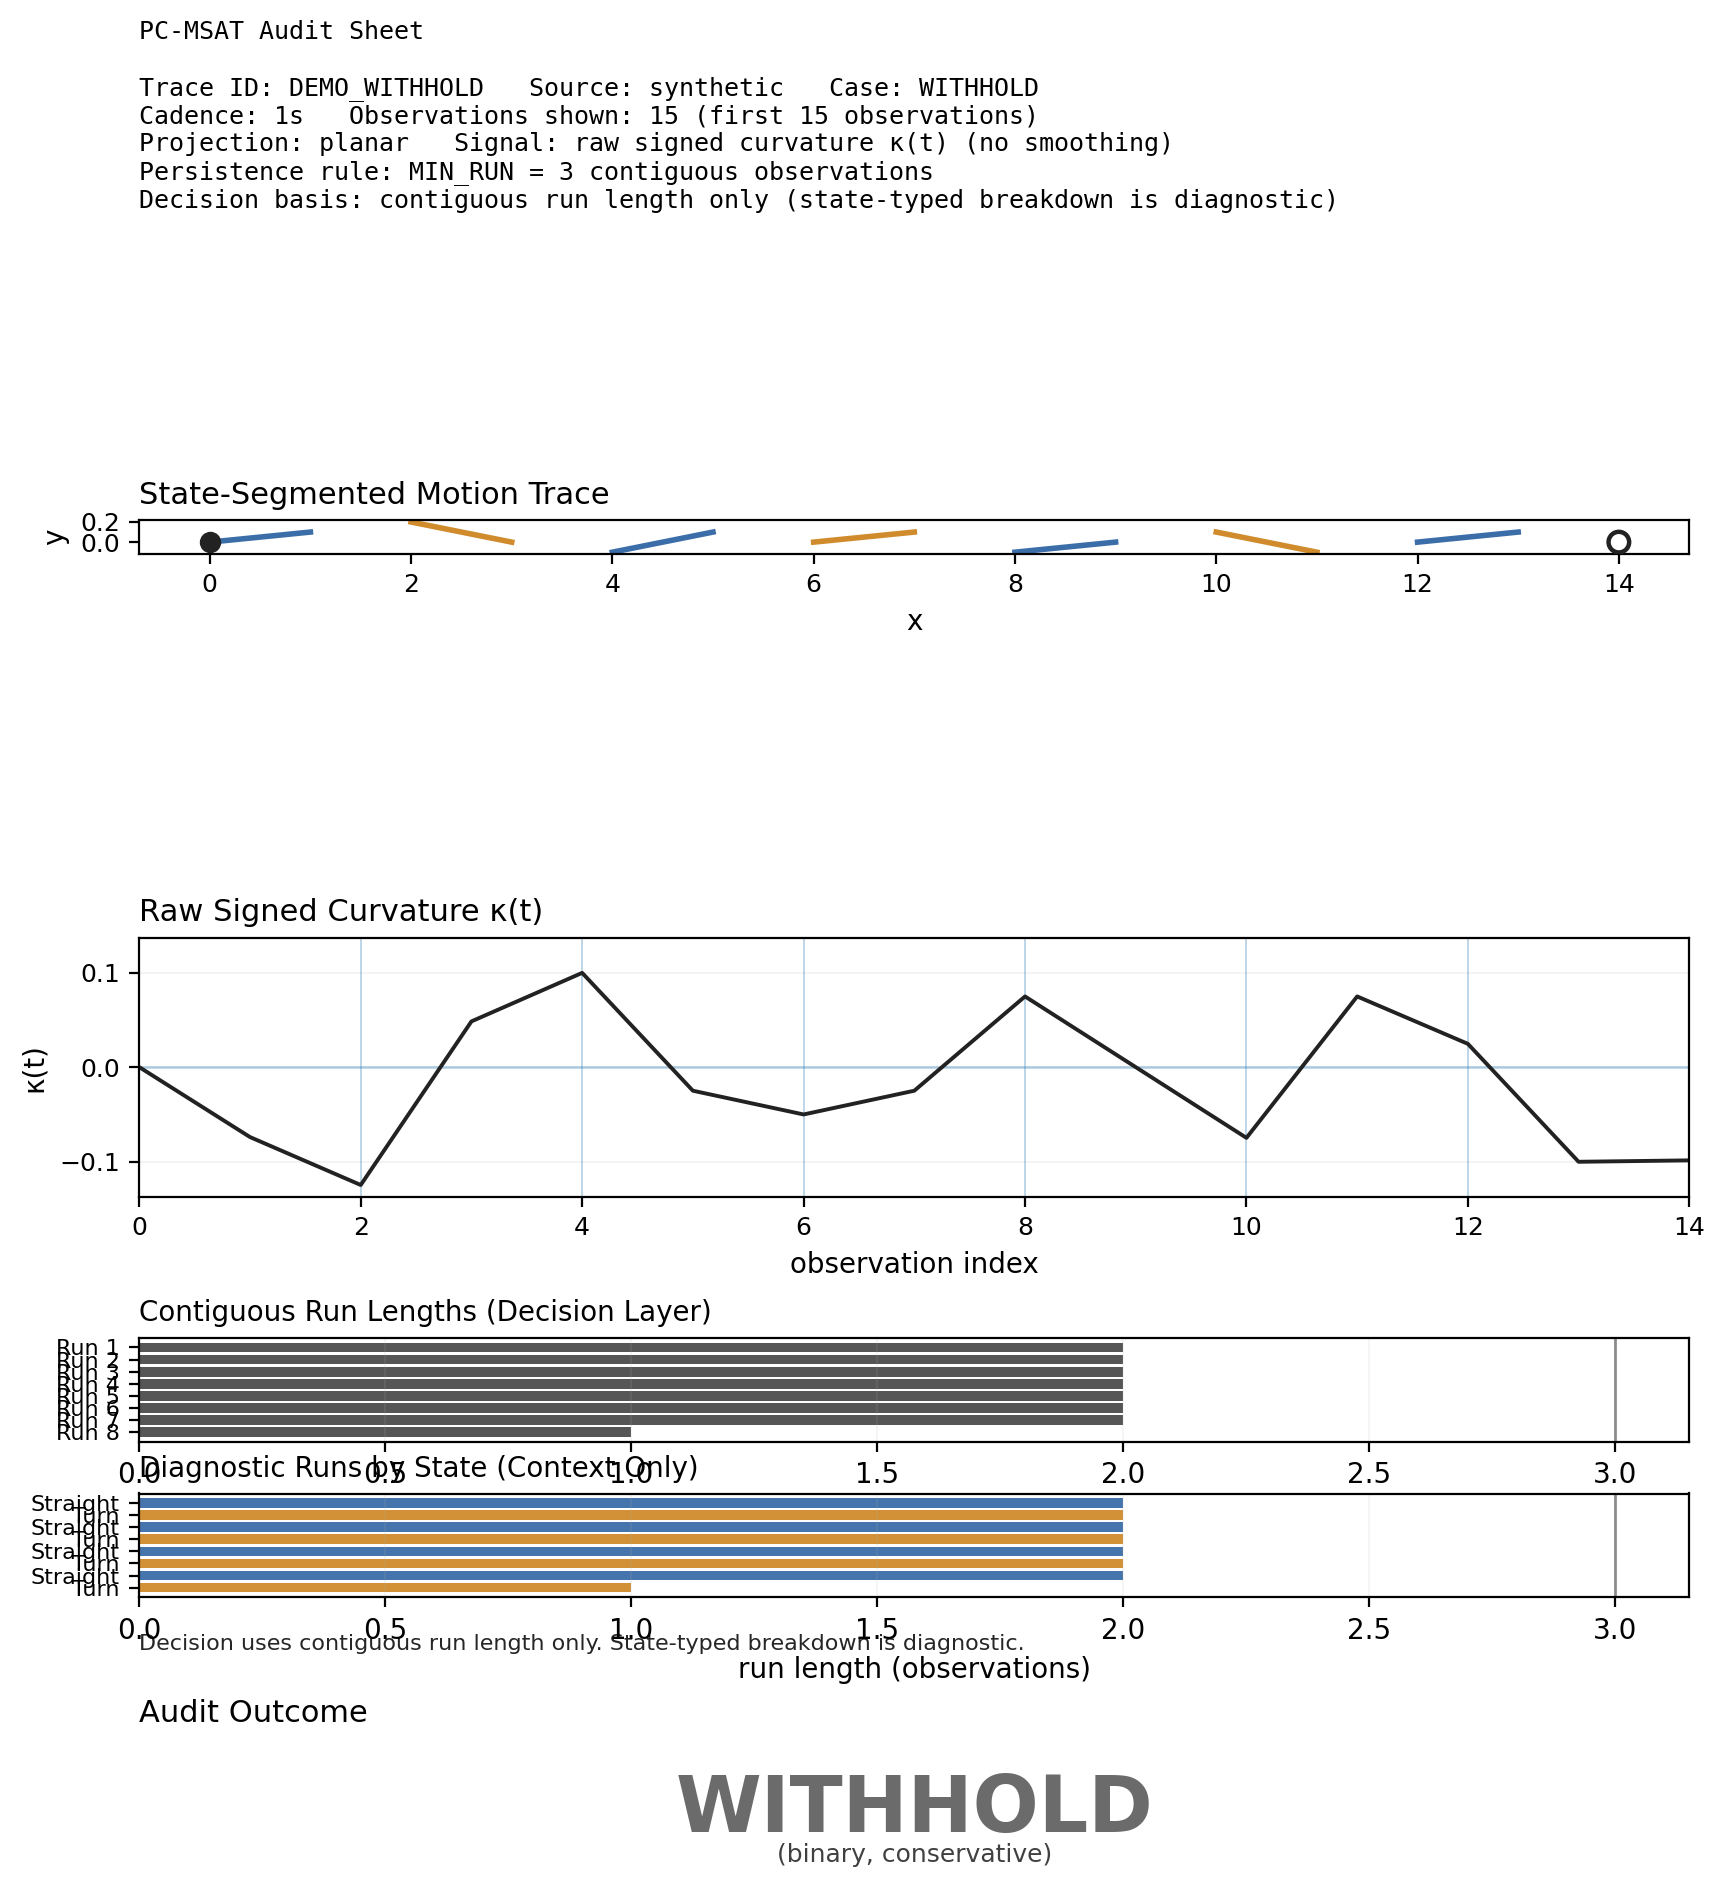
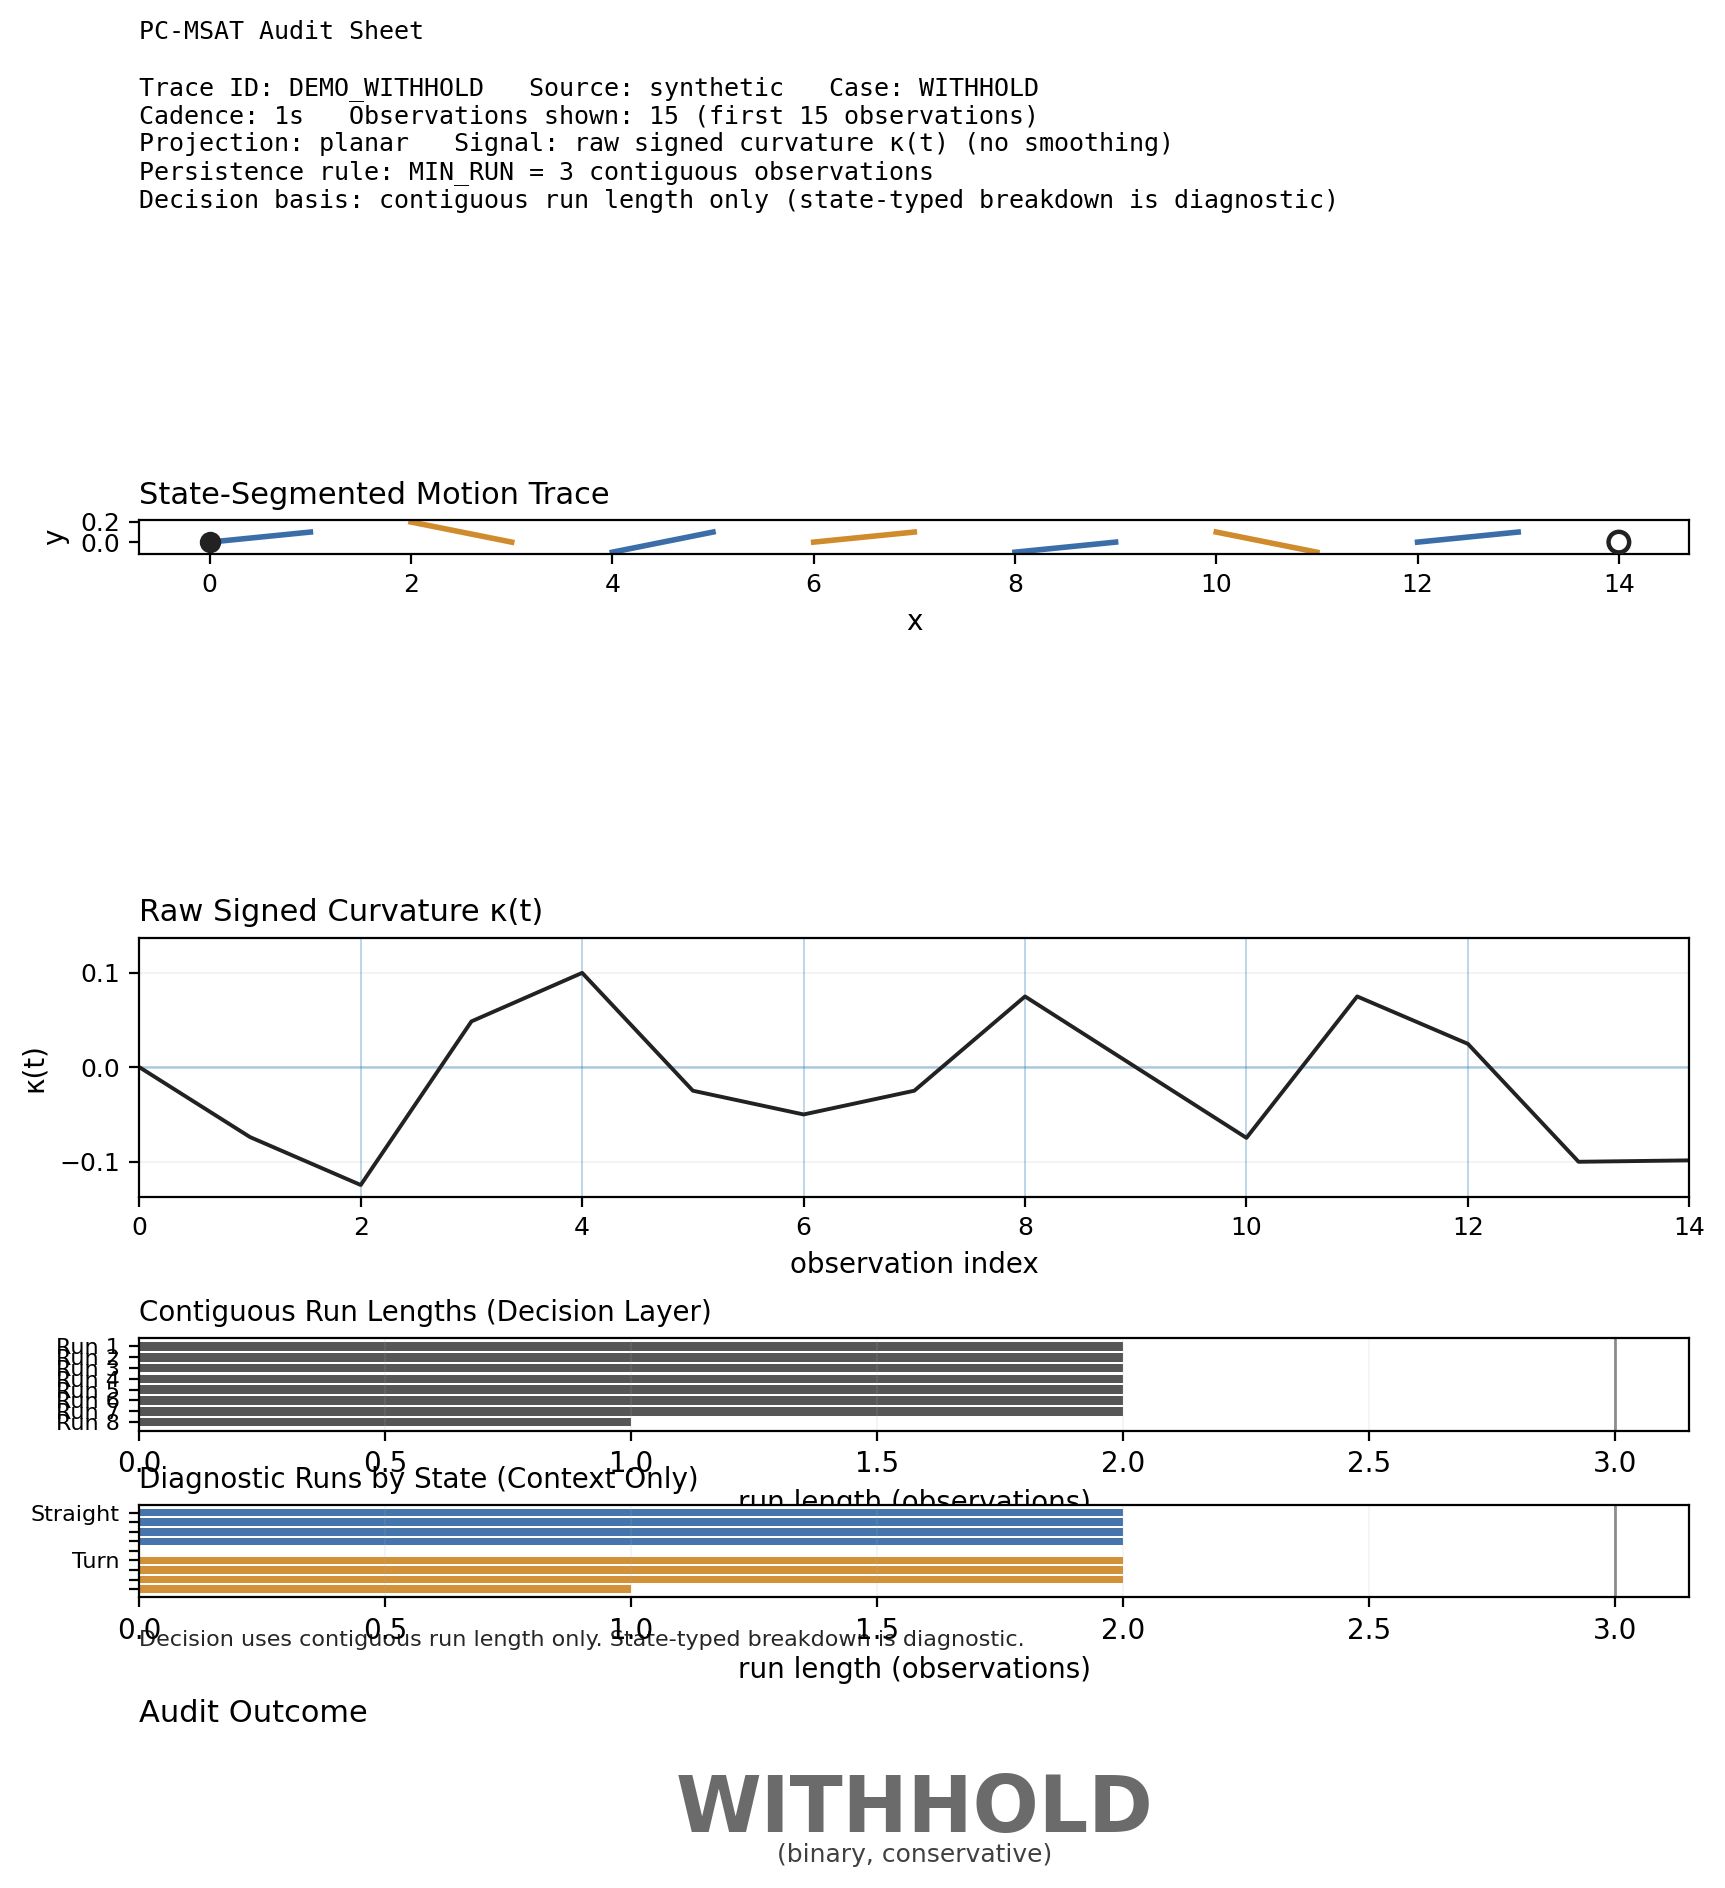
PC-MSAT v0 reference renderer + specification

Changed region(s): [[0.0, 0.7188, 0.9832, 0.875]]

diff --git a/spec/pcmsat_v0_spec.md b/spec/pcmsat_v0_spec.md
@@ -1,0 +1,155 @@
+PC-MSAT v0 — Pre-Classification Motion Structure Audit Tool
+
+Reference Specification
+
+1. Purpose
+
+PC-MSAT (Pre-Classification Motion Structure Audit Tool) is a geometry-first audit interface designed to evaluate whether a motion trace contains sufficient contiguous persistence to justify downstream classification or analysis.
+
+PC-MSAT does not classify, identify, or interpret motion.
+It performs a pre-classification structural audit and returns a binary outcome:
+
+PROCEED or WITHHOLD.
+
+The tool is intentionally conservative.
+
+2. Conceptual Position in a Motion Analysis Pipeline
+
+PC-MSAT operates upstream of classification systems.
+
+Example pipeline position:
+
+Raw Observational Trace
+        ↓
+State Segmentation (SOD or equivalent)
+        ↓
+PC-MSAT Structural Audit
+        ↓
+Proceed → downstream analysis permitted
+Withhold → insufficient persistence
+
+PC-MSAT does not alter the trace, estimate parameters, or perform inference.
+
+3. Required Input
+
+A state-segmented motion trace with the following columns:
+
+t
+x
+y
+state
+
+Where:
+
+Column	Meaning
+t	observation index or timestamp
+x,y	planar position
+state	discrete motion state label
+
+Allowed states in the reference implementation:
+
+Straight
+Turn
+Hover
+Orb
+
+4. Core Decision Rule
+
+PC-MSAT evaluates contiguous run length within the state-segmented trace.
+
+Define:
+
+MIN_RUN = minimum contiguous observations required
+
+Let:
+
+max_run = longest contiguous run in the trace
+
+Decision rule:
+
+if max_run ≥ MIN_RUN
+    → PROCEED
+else
+    → WITHHOLD
+
+The rule is intentionally state-agnostic.
+
+5. Diagnostic Context (Non-Decisional)
+
+PC-MSAT may display state-typed diagnostic information to help contextualize runs.
+
+However:
+
+State type never affects the decision rule.
+
+Diagnostic displays exist only for interpretive context.
+
+6. Reference Audit Sheet Layout
+
+The reference renderer produces a deterministic audit sheet consisting of four panels:
+
+Panel 1 — State-Segmented Motion Trace
+
+Trajectory colored by motion state.
+
+Panel 2 — Raw Signed Curvature κ(t)
+
+Curvature computed directly from discrete coordinates.
+
+No smoothing or filtering is applied.
+
+Panel 3 — Persistence Analysis
+
+Two layers:
+
+Decision Layer
+
+contiguous run lengths
+
+MIN_RUN threshold marker
+
+Diagnostic Layer
+
+state-typed run grouping (context only)
+
+Panel 4 — Audit Outcome
+
+Binary output:
+
+PROCEED
+WITHHOLD
+
+7. Integrity Safeguard
+
+The reference renderer verifies that:
+
+declared CASE_LABEL == computed audit result
+
+If the values disagree, rendering fails.
+
+This prevents mis-labeled artifacts.
+
+8. Design Principles
+
+PC-MSAT follows the core principles of Structured Orb Dynamics:
+
+• Geometry-first evaluation
+• No forced inference
+• Conservative withholding preferred over over-interpretation
+• Deterministic rendering
+• No tuning or optimization
+
+9. Reference Implementation
+
+Reference renderer:
+
+renderer/render_pcmsat_audit.py
+
+Example artifacts:
+
+visuals/withhold_demo.png
+visuals/proceed_demo.png
+
+10. Version
+PC-MSAT Specification v0
+Reference demonstration release
